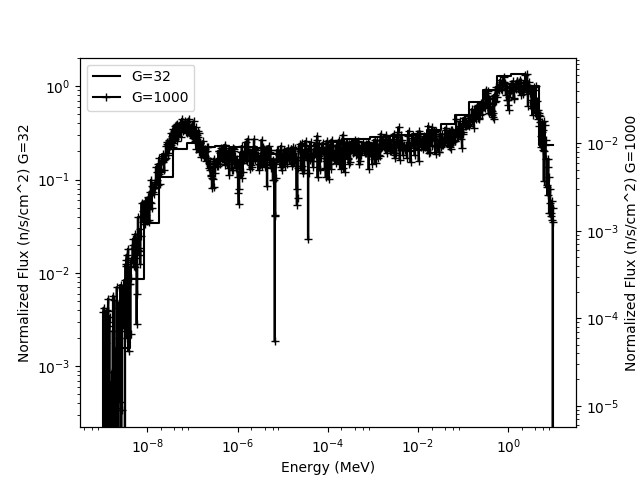
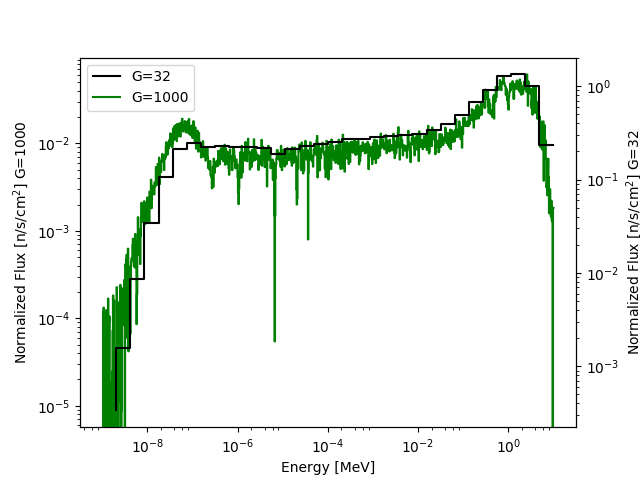
updated image

diff --git a/class data/flux.py b/class data/flux.py
@@ -46,12 +46,13 @@ y2 = flux1000
 fig, ax1 = plt.subplots()
 ax2 = ax1.twinx()
 
-small = ax1.step(x1, y1, 'k-', label = 'G=32')
-large = ax2.step(x2, y2, 'k+', label = 'G=1000')
 
-ax1.set_xlabel('Energy (MeV)')
-ax1.set_ylabel('Normalized Flux (n/s/cm^2) G=32')
-ax2.set_ylabel('Normalized Flux (n/s/cm^2) G=1000')
+large = ax1.step(x2, y2, 'g-', label = 'G=1000', zorder=10)
+small = ax2.step(x1, y1, 'k-', label = 'G=32', zorder=1)
+
+ax1.set_xlabel('Energy [MeV]')
+ax2.set_ylabel('Normalized Flux [n/s/cm$^2$] G=32')
+ax1.set_ylabel('Normalized Flux [n/s/cm$^2$] G=1000')
 ax1.set_xscale('log')
 ax1.set_yscale('log')
 ax2.set_xscale('log')
